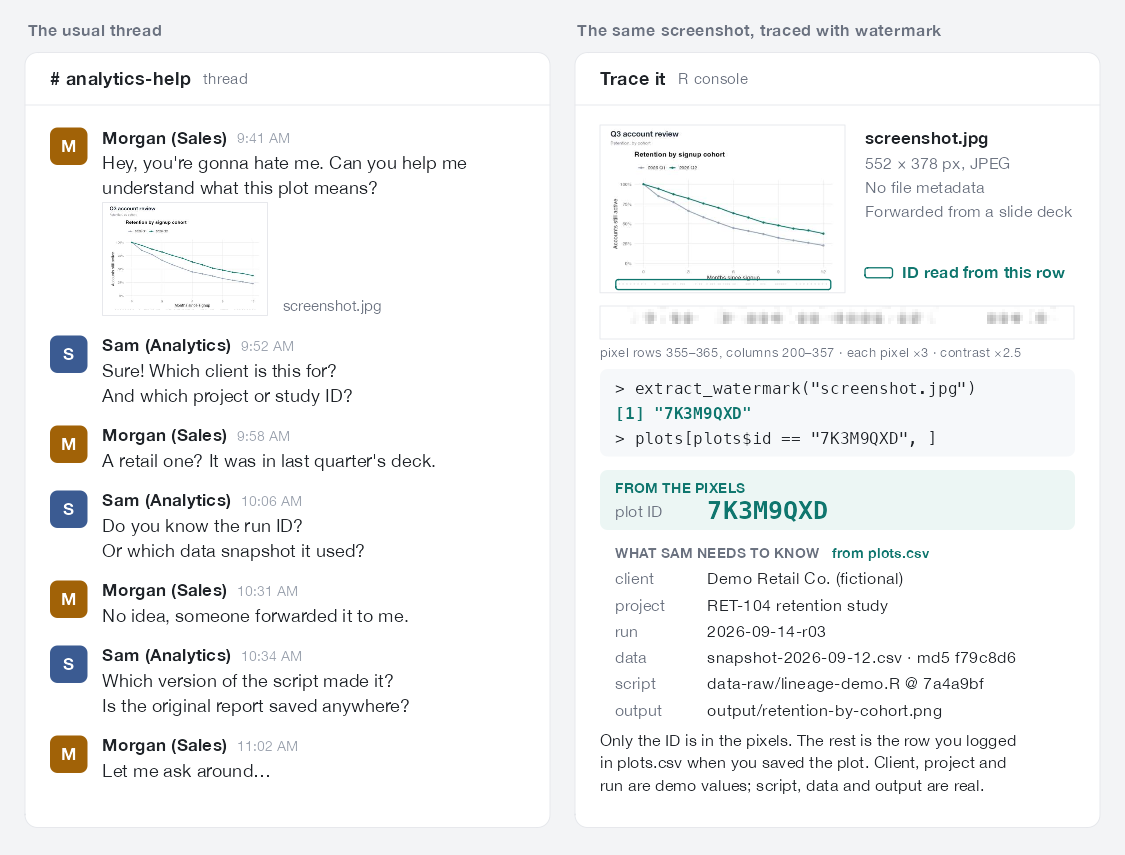
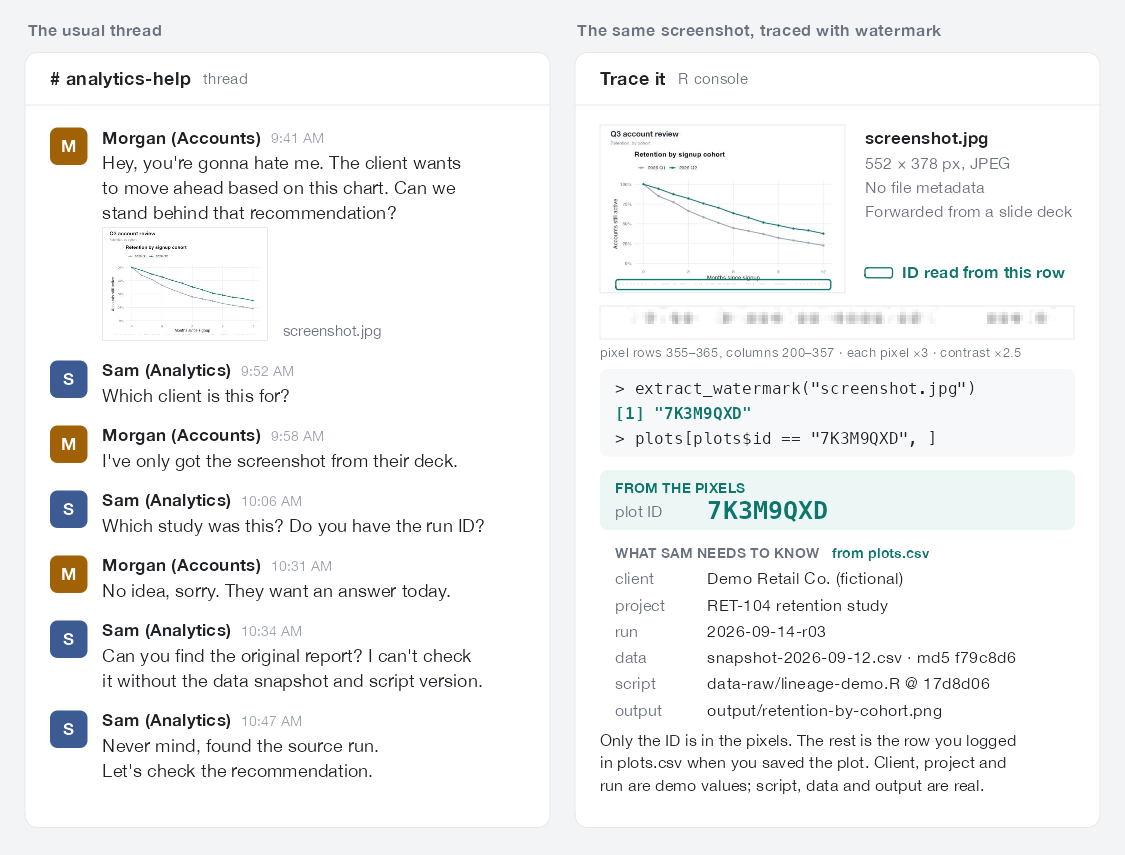
README hero: rewrite lineage thread around a client decision
The thread now opens on business stakes (the client wants to act on the
chart; can we stand behind it?) instead of 'what does this plot mean'.
Sam's questions still map to the six ledger rows, and on desktop Sam
closes with 'found the source run, let's check the recommendation':
the trace recovers the source, it doesn't vouch for the conclusion.
Layout and visuals unchanged; alt text updated to match.

diff --git a/README.md b/README.md
@@ -27,7 +27,7 @@ its run, code and data.
 
 <picture>
 <source media="(max-width: 640px)" srcset="man/figures/lineage-mobile.gif" />
-<img src="man/figures/lineage.gif" width="100%" alt="Animation in two panels. Left: a chat thread. Someone shares a chart screenshot and asks what it means; the analyst asks which client, which project, which run, which data snapshot, which script version and where the original file is, and nobody knows. Right: the same screenshot, a 552 by 378 pixel JPEG with no file metadata, and a ledger of those six unknowns. In an R console, extract_watermark() reads the ID 7K3M9QXD from the screenshot's dot row, shown as a strip of its magnified pixels, and looking the ID up in a plots.csv manifest fills in the six rows: client, project, run, data, script and output. A note says only the ID is in the pixels; the rest is the row logged when the plot was saved, with client, project and run as demo values." />
+<img src="man/figures/lineage.gif" width="100%" alt="Animation in two panels. Left: a chat thread. An account manager shares a chart screenshot from a client deck: the client wants to move ahead based on it, can we stand behind that recommendation? The analyst asks which client, which study, which run, which data snapshot, which script version and where the original report is, and nobody knows. Right: the same screenshot, a 552 by 378 pixel JPEG with no file metadata, and a ledger of those six unknowns. In an R console, extract_watermark() reads the ID 7K3M9QXD from the screenshot's dot row, shown as a strip of its magnified pixels, and looking the ID up in a plots.csv manifest fills in the six rows: client, project, run, data, script and output. The analyst then replies in the thread: never mind, found the source run, let's check the recommendation. A note says only the ID is in the pixels; the rest is the row logged when the plot was saved, with client, project and run as demo values." />
 </picture>
 </p>
 
